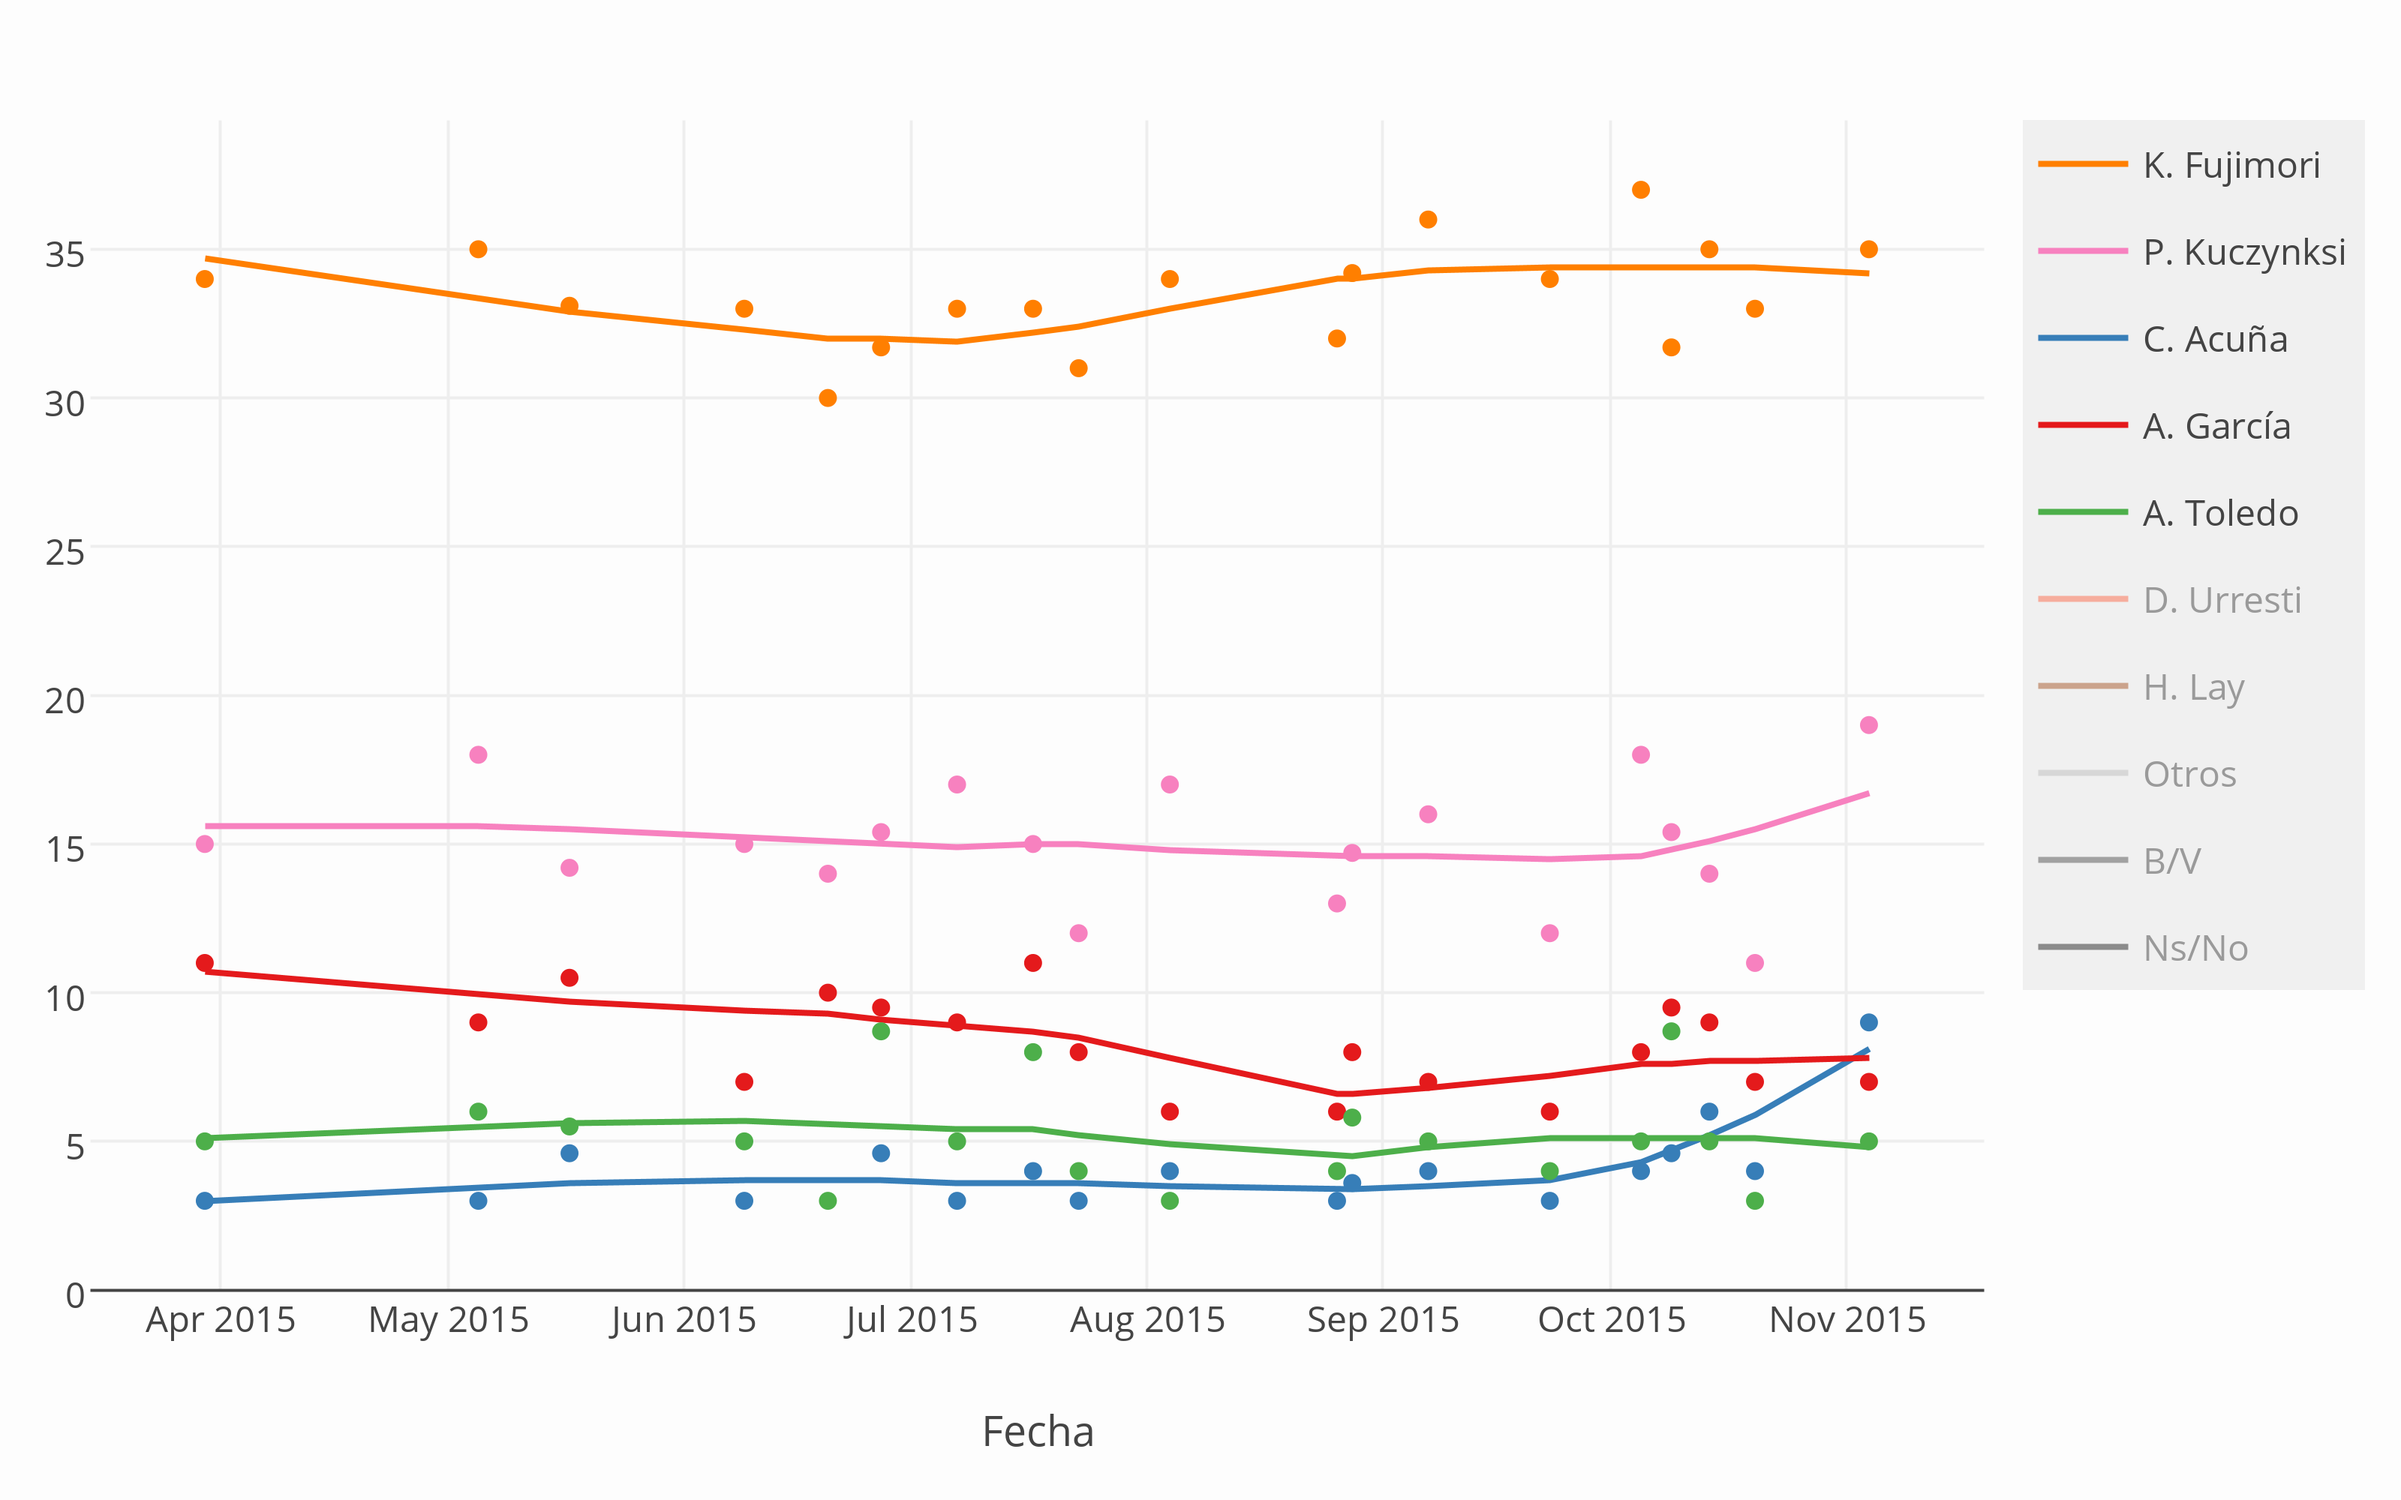
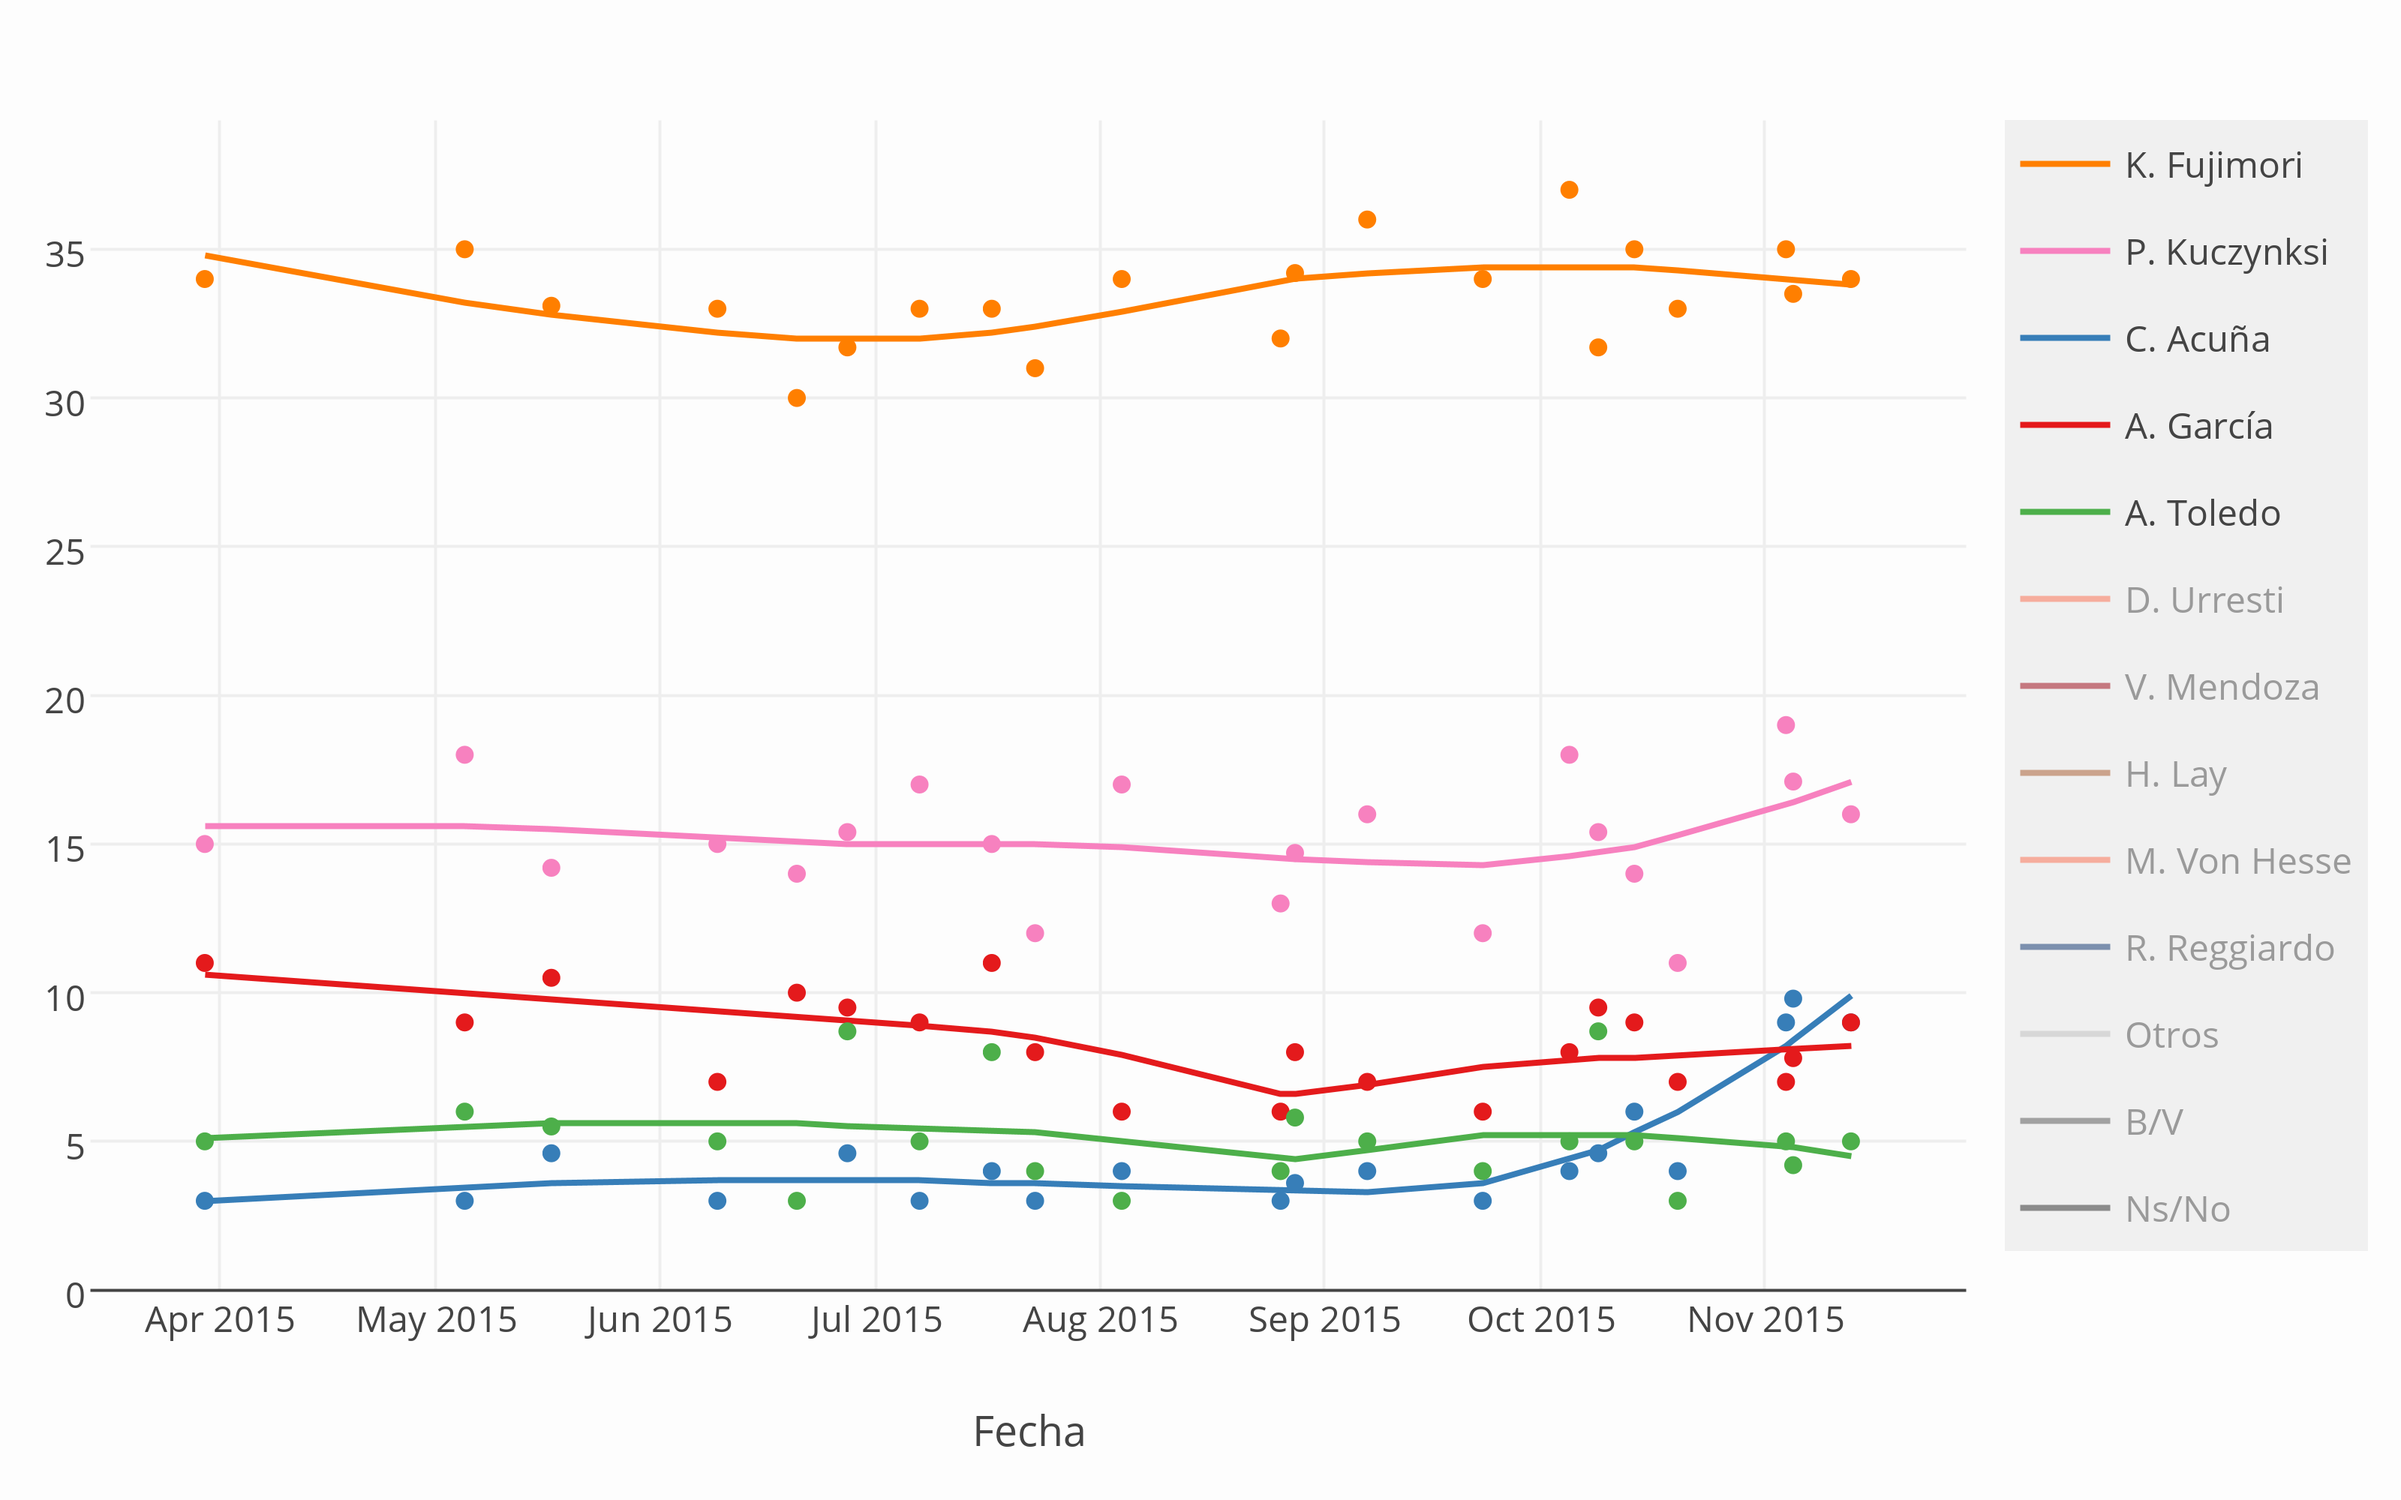
detalles grafico encuestas

diff --git a/_posts/2015-12-30-Elecciones-presidenciales-2016.md b/_posts/2015-12-30-Elecciones-presidenciales-2016.md
@@ -25,7 +25,7 @@ breadcrumb: true
 
 
 
-Actualizado el 10 Nov 2015
+Actualizado el 13 de noviembre 2015
 
 <iframe src="https://plot.ly/~AlejandroKantor/202.embed" style="width: 125%" frameBorder="0" height="500" scrolling="no" seamless="seamless"
 class="myIframe">
